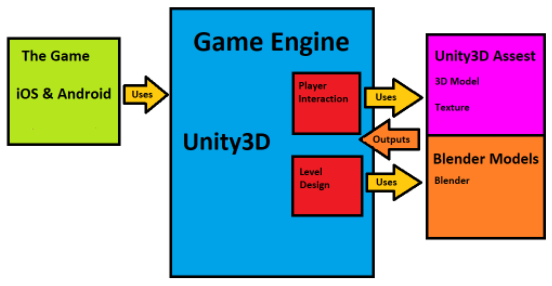
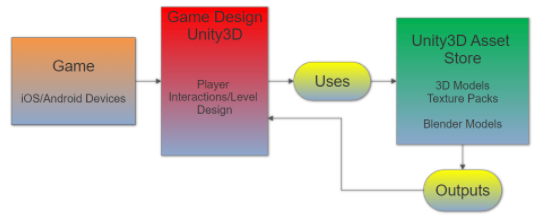
design3

diff --git a/Design.html b/Design.html
@@ -50,7 +50,7 @@
 	<h3>3.2 Environment</h3>
 	<p>The primary environment for this game is as a mobile VR application. This will be accomplished using the Google Cardboard Virtual Reality system. This headset platform allows us to develop both an iOS and Android application that can be run on the vast majority of smartphones. The underlying game engine for this is Unity 3D, which allows us to readily create, test, and polish various aspects of the game during production. Connecting the Unity 3D project to the headset is the Google Cardboard API version 0.6, which gives us the largest amount of control over the project and how it is presented on the phone screen.</p>
 	<h3>3.3 Module Descriptions and Data Flow</h3>
-	<p><img src="./data_flow_swag.PNG" alt="data_flow_swag" Height="286" width="552"></p>
+	<p><img src="./Design_3.3.PNG" alt="Design_3.3.PNG" Height="222" Width="538"></p>
 </div>
 	<script type="text/javascript" src="dropdown.js"></script>
 </body>
